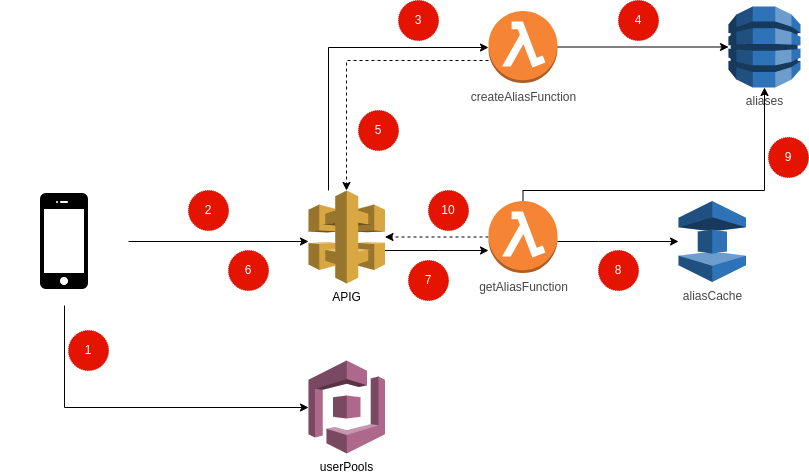
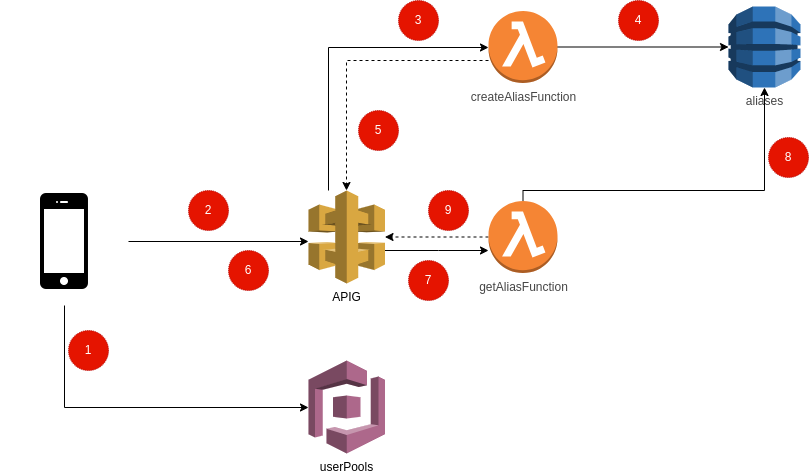
Adiciona objetivo 1

Changed region(s): [[0.8035, 0.4126, 0.9271, 0.6484], [0.7417, 0.5011, 0.8035, 0.6189]]

diff --git a/exercises/05/README.md b/exercises/05/README.md
@@ -2,42 +2,166 @@
 O objetivo este exercício é o de criar uma aplicação real na AWS. Este exercício será quebrado em objetivos menores e você só deverá ir para o próximo exercício quando terminar e testar o exercício anterior.
 
 # Antes e começar
-Para esse exercício estamos deixando uma Cognito UserPools já configurada para você usar para criar sua aplicação.
+Para esse exercício estamos deixando uma Cognito UserPools já configurada para você usar em sua aplicação.
 
 ## Objetivo 1
 ### Arquitetura
 ![Objetivo 1](imagens/final_exercise.png)
 
 ### Descrição
-1. Aplicação criar/loga usuário usando URL de autenticação do cognito (veja Output **BitlyAuthURL**). Após se logar, o domínio do cognito chamará a URL de callback que redirecionará para a aplicação do cliente com os seguintes query parameters: **id_token**, **expires_in** e **token__type**.
-2. Após o login, a aplicação faz uma chamada de **POST** para o APIG com as seguintes informações:
+1. Aplicação cria/loga usuário usando URL de autenticação do cognito (veja Output **BitlyAuthURL**). Após se logar, o domínio do cognito chamará a URL de callback que redirecionará para a aplicação do cliente com os seguintes query parameters: **id_token**, **expires_in** e **token__type**.
+2. Após o login, a aplicação faz uma chamada de **POST** para o Api Gateway e informa a URL que deverá ser encurtada.
+3. Se o token de autenticação for válido, o Api Gateway chama a Lambda **createAliasFunction**. Esta Lambda criará um valor aleatório de 8 caracteres e verificará se este valor não existe no DynamoDB **aliases**. Se existir, ela deverá gerar outro valor.
+4. Se o valor não existir, a lambda **createAliasFunction** deverá salvar o dado no DynamoDB.
+5. **CreateAliasFunction** retorna um body com o caminho que o usuário deverá acessar para chamar a URL encurtada.
+6. Usuário acessa a URL retornada pelo passo anterior (https://{domínio_do_APIG}/{alias}). Esta URL será um caminho de **GET** no API Gateway.
+7. APIG chama a função **getAliasFunction** para procurar o alias.
+8. **getAliasFunction** procura alias no DynamoDB **aliases**. Se achar, irá redirecionar para a URL.
+Se não achar, ela deverá retornar um erro **404 (Not Found)**.
 
-```
-POST /alias
-HEADERS
-  Authorization: id_token
-DATA:
-    {
-        "data": {
-            "url" "http://abc.com.br"
-        }
-    }
+### Objetivos
+#### 1. Adicionar o Cognito UserPools em sua Stack
+Copiei as seguintes configurações em seu arquivo de template:
+
+```yaml
+  BitlyUserPool:
+    Type: AWS::Cognito::UserPool
+    Properties:
+      UserPoolName: !Sub '${AWS::StackName}-userPool'
+      AdminCreateUserConfig:
+        AllowAdminCreateUserOnly: false
+      AutoVerifiedAttributes:
+        - email
+      EmailConfiguration:
+        EmailSendingAccount: COGNITO_DEFAULT
+      UsernameConfiguration:
+        CaseSensitive: false
+      AccountRecoverySetting:
+        RecoveryMechanisms:
+          - Name: verified_email
+            Priority: 1
+      Policies:
+        PasswordPolicy:
+          MinimumLength: 12
+          RequireLowercase: true
+          RequireNumbers: true
+          RequireSymbols: true
+          RequireUppercase: true
+          TemporaryPasswordValidityDays: 1
+      Schema:
+        - Name: name
+          AttributeDataType: String
+          Mutable: true
+          Required: true
+        - Name: 'family_name'
+          AttributeDataType: String
+          Mutable: true
+          Required: true
+        - Name: 'birthdate'
+          AttributeDataType: String
+          Required: true
+          Mutable: true
+        - Name: email
+          AttributeDataType: String
+          Mutable: false
+          Required: true
+
+  BitlyFreeUserGroup:
+    Type: AWS::Cognito::UserPoolGroup
+    Properties:
+      GroupName: free_account
+      Precedence: 1
+      UserPoolId: !Ref BitlyUserPool
+
+  BitlyPremiumUserGroup:
+    Type: AWS::Cognito::UserPoolGroup
+    Properties:
+      GroupName: premium_account
+      Precedence: 2
+      UserPoolId: !Ref BitlyUserPool
+
+  BitlyUserPoolClient:
+    Type: AWS::Cognito::UserPoolClient
+    Properties:
+      ClientName: !Sub '${AWS::StackName}-userPoolClient'
+      GenerateSecret: false
+      UserPoolId: !Ref BitlyUserPool
+      AllowedOAuthFlowsUserPoolClient: true
+      CallbackURLs: [http://localhost:3000]
+      AllowedOAuthFlows: [implicit, code]
+      AllowedOAuthScopes: [email, openid]
+      SupportedIdentityProviders: [COGNITO]
+
+  BitlyUserPoolDomain:
+    Type: AWS::Cognito::UserPoolDomain
+    Properties:
+      UserPoolId: !Ref BitlyUserPool
+      Domain: !Ref AWS::StackName
+
+  BitlyApi:
+    Type: AWS::Serverless::Api
+    Properties:
+      StageName: prod
+      Auth:
+        DefaultAuthorizer: CognitoAuthorizer
+        Authorizers:
+          CognitoAuthorizer:
+            UserPoolArn: !GetAtt BitlyUserPool.Arn
 ```
 
-3. Se o token de authenticação for válido, o APIG chama a Lambda **createAliasFunction**. Essa Lambda criará um valor aleatório de 8 caracteres e verificará se esse valor não existe no DynamoDB **aliases**. Se existir, ela deverá gerar outro valor.
-   - A Lambda deverá pegar o evento enviado pelo API Gateway para validar o grupo do usuário no cognito e se ele está verificado.
-4. Se o valor não existir, a lambda **createAliasFunction** deverá salvar o dado no DynamoDB com o seguinte formato:
+Ela criará adicionará a configuração do Cognito UserPools e criará um Serveless API configurado para usar esse método de autenticação. Você também deverá copiar a seguinte output:
+
+```yaml
+  BitlyAuthURL:
+    Value: !Sub 'https://${BitlyUserPoolDomain}.auth.${AWS::Region}.amazoncognito.com/login?client_id=${BitlyUserPoolClient}&response_type=token&redirect_uri=http://localhost:3000'
+```
+
+Se você acessar essa URL poderá criar/logar usuários no seu Cognito UserPools.
+
+#### 2. Acesse a URL criada pela output BitlyAuthURL e crie dois usuários
+#### 3. Adicione um usuário no grupo free_account
+#### 4. Adicione o outro usuário no grupo premium_account
+#### 5. Crie um DynamoDB para salvar as URL encurtadas
+Crie um DynamoDB com a classe de custo **ON_DEMAND** chamado `${AWS::StackName}-aliases`. Esse DynamoDB possuirá os seguintes atributos:
+
+|Nome do Atributo|Tipo|Descrição|
+|-|-|-|
+|id|string|será o código de 8 dígitos para redirecionar para a URL desejada|
+|url|string|a url para qual a API irá redirecionar|
+|uuid|string|o `sub/UUID` do usuário cognito|
+|tipo|string|o nome do grupo do usuário que criou esse registro (**free_account**/**premium_account**)|
+
+E com os seguintes indexes:
+
+|Índice|Tipo|
+|-|-|
+|id|chave de partição da tabela (HASH KEY).|
+|tipo|index secundário global da tabela.|
+
+#### 6. Crie a Lambda **createAliasFunction**
+1. Crie uma lambda usando o tipo **AWS::Serverless:Function** e a adicione na API `BitlyApi` como método de **POST**.
+2. A Lambda deverá ser protegida pelo tipo de Autenticação Cognito (padrão na definição de BitlyApi). Para autenticar, o usuário deverá passar o header **Authorization** com a queryString **id_token** retornada pelo redirecionamento da página de authenticação do cognito.
+3. A Lambda deverá receber o seguinte body:
 
 ```json
 {
-    "alias": "string de 8 caracteres",
-    "url": "url para onde a API deverá redirecionar",
-    "uuid": "sub/uuid do usuário cognito",
-    "type": "PAID/FREE (lambda deverá pegar o grupo do usuário para definir esse valor)"
+    "data": {
+        "url": "http://abc.com.br"
+    }
 }
 ```
 
-5. **CreateAliasFunction** retorna um body com o caminho que o usuário deverá acessar para chamar a URL encurtada:
+4. A Lambda deverá:
+   1. Validar se o usuário Cognito está verificado.
+   2. Validar se o usuário Cognito está em algum grupo.
+   3. Gerar um valor aleatório com números e letras de 8 caracteres.
+   4. Adicionar um item no DynamoDB usando a operação **updateItem** com uma **condition expression** para evitar sobrescrever outro item na tabela. A expressão deverá adicionar:
+      1. O **valor aleatório** com o campo **id**.
+      2. A **url enviada pelo usuário** como **url**.
+      3. O **sub/uuid do usuário** como **uuid**.
+      4. O *grupo do usuário** como **tipo**.
+   5. Se a condição de atualização de item falhar, a lambda deverá criar outro valor aleatório e tentar novamente.
+   6. No final de sua execução, a Lambda deverá retornar a URL para redirecionar para o domínio enviado:
 
 ```json
 {
@@ -47,20 +171,36 @@ DATA:
 }
 ```
 
-6. Usuário acessa a URL retornada pelo passo anterior (https://{domínio_do_APIG}/{alias}). Essa URL será um caminho de **GET**
-no API Gateway.
-7. APIG chama a funçãoo **getAliasFunction** para procurar o alias.
-8. **getAliasFunction** procurar o alias no Redis **aliasCache**. Se a achar ali, ela retorna o código HTTP 301 com a URL
-para qual ela deverá redirecionar.
-9. Se **getAliasFunction** não achar o alias em **aliasCache**, ele pesquisará em **aliases**. Se o achar, ele
-irá salvar o alias em **aliasCache** e depois redirecionar para a URL salva.
-10. Para redirecionar, a Lambda deverá retornar a seguinte saída:
+#### 7. Crie a Lambda **getAliasFunction**
+1. Crie uma lambda usando o tipo **AWS::Serverless:Function** e a adicione na API `BitlyApi` como método de **GET**. Essa API deverá receber um path parameter como `/{alias}`.
+2. A Lambda não deverá ter quaisquer métodos de autenticação. Você deverá sobrescrever a autenticação do tipo Cognito nesse caso.
+3. A Lambda deverá ler o path parameter de seu evento e o procurar no DynamoDB **${AWS::StackName}-aliases**.
+4. Se o alias existir, a lambda deverá retornar o código HTTP 301 com a URL encontrada no header location. Assim:
 
 ```json
 {
     "statusCode": 301,
     "headers": {
-        "Location": "{{url encontrada}}"
+        "Location": "http://abc.com.br"
     }
 }
 ```
+
+#### 8. Crie um Custom Domain para seu API Gateway
+Nesta parte você trabalhará um pouco com **Custom Domains**, **certificados** e **gerenciamento de Cache**.
+
+1. Crie um certificado (`AWS::CertificateManager::Certificate`) público na AWS usando o método de validação **DNS**.
+2. Crie um mecanismo de auto validação para esse certificado usando o CloudFormation.
+3. Crie um custom domain (`DomainConfiguration`) do tipo **REGIONAL**
+4. Crie um subdomínio (`AWS::Route53::RecordSet`) para ser usado em seu API Gateway. Sugestão: `${AWS::StackName}.seudomínio`.
+5. Em seu Api Gateway, adicione Cache para o stage criado (`CacheClusterEnabled`, `CacheClusterSize` e `MethodSettings`).
+
+No final desta implementação você deverá possuir um domínio customizado para seu API Gateway e configurações de cache para seu método de GET.
+
+#### 9. (Opcional) Crie uma aplicação que use sua API
+1. Crie uma aplicação web que redirecione para o site de autenticação do Cognito se o usuário não estiver logado (sem cookies de sessão).
+2. Se o usuário estiver logado, apresente uma tela onde ele poderá adicionar uma URL e ver seu versão encurtada ao chamar a API criada nos passos anteriores.
+3. Após terminar a implementação de sua aplicação, crie um Bucket S3 e mova sua aplicação para dentro deste.
+4. Crie uma distribuição de CloudFront que use seu Bucket S3 como origin.
+5. **opcional:** crie um certificado público da AWS e um domínio usando o Route53 para sua aplicação.
+6. Ao finalizar esses passos, mude a propriedade **CallbackURLs** de **BitlyUserPoolClient** para redirecionar para sua aplicação após o login de um usuário.
